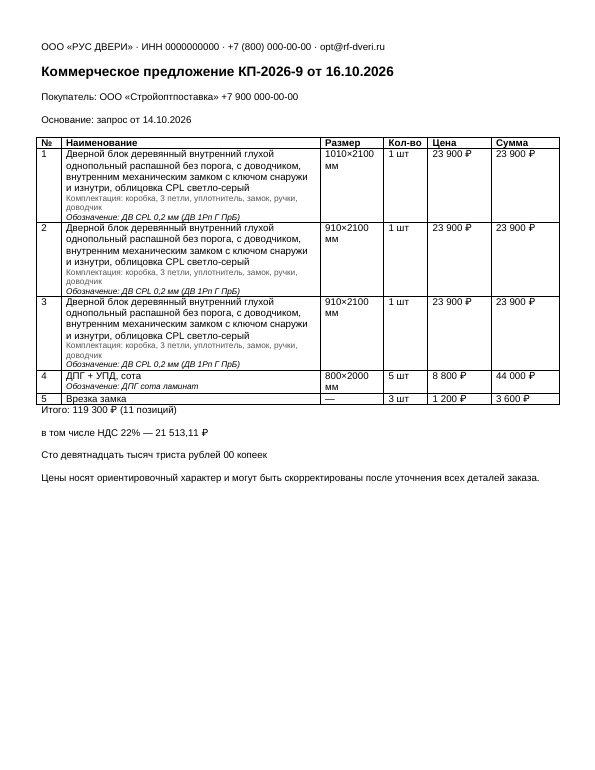
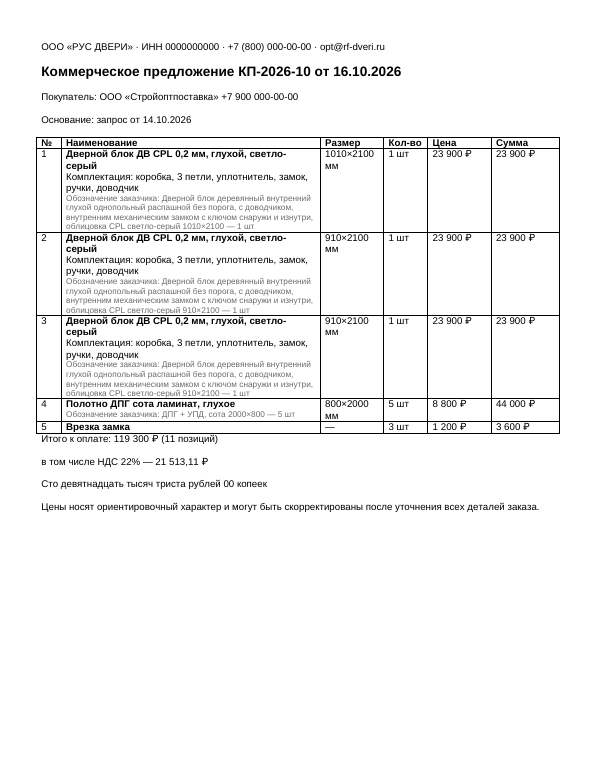
RFD-AI-AGENT-OPT-KP-LAYOUT: ячейка «Наименование» в три уровня — короткое название по прайсу с признаками (без «по прайсу»), комплектация, обозначение заказчика (строка запроса); один знак ₽ при «{{grand_total}} ₽» в шаблоне; разрывы страницы после таблицы убираются; цвет в любом роде; образец шабло
Claude-Session: https://claude.ai/code/session_01Xv7hRJtpbHuxcUrULXqH6e

diff --git a/packages/opt/kp/test/kp.test.ts b/packages/opt/kp/test/kp.test.ts
@@ -1,8 +1,8 @@
 import type { LeadFile } from '@core/amo';
 import type { LlmGateway, RoutedRequest, RoutedResponse } from '@core/llm';
 import { describe, expect, it } from 'vitest';
-import { DEFAULT_PRICE_NOTE, lineSum, plural, rublesInWords, templateData, withPriceNoteFallback, withLayoutFallback } from '../src/build.ts';
-import { buildKpDraft, extractEmail, mailSearchOf, parseDraft, positionToRequest, senderFromNotes, type KpDraftDeps, type ParsedFile, fullItemName, kpLineDesignation, kpLineName, kpLineParts, tidyName } from '../src/draft.ts';
+import { DEFAULT_PRICE_NOTE, lineSum, plural, rublesInWords, templateData, withPriceNoteFallback, withLayoutFallback, currencyTagsInTemplate, withCurrencyFallback, dropPageBreaksAfterTable } from '../src/build.ts';
+import { buildKpDraft, extractEmail, mailSearchOf, parseDraft, positionToRequest, senderFromNotes, type KpDraftDeps, type ParsedFile, fullItemName, kpLineName, kpLineParts, kpShortName, tidyName } from '../src/draft.ts';
 import { MailAuthError, type MailSearchDiag } from '../src/mail-read.ts';
 import { researchablePositions } from '../src/research-job.ts';
 
@@ -74,20 +74,38 @@ describe('черновик: разбор ответа модели и позиц
     expect(p.request_items[0]?.name).toBe(full);
     expect(kpLineName({ name: full, priceModel: 'ДВ CPL 0,2 мм' })).toBe(`${full} — по прайсу: ДВ CPL 0,2 мм`);
     expect(kpLineName({ name: full, priceModel: null })).toBe(full);
-    // KP-LAYOUT: строка в три части — название / комплектация / обозначение по прайсу (модель с покрытием и сокращение по ГОСТ).
-    expect(kpLineParts({ name: full, priceModel: 'ДВ CPL 0,2 мм', priceAbbr: 'ДВ 1Рп Г ПрБ', equipment: 'коробка, 3 петли' })).toEqual({ name: full, equipment: 'коробка, 3 петли', designation: 'ДВ CPL 0,2 мм (ДВ 1Рп Г ПрБ)' });
-    expect(kpLineDesignation({ priceModel: 'ДПГ сота ламинат', priceAbbr: 'ДПГ' })).toBe('ДПГ сота ламинат');
-    expect(kpLineDesignation({ priceModel: null, priceAbbr: null })).toBe('');
-    expect(kpLineParts({ name: 'Врезка замка', priceModel: null, priceAbbr: null, equipment: null })).toEqual({ name: 'Врезка замка', equipment: '', designation: '' });
-    // Шаблон без {{equipment}} / {{designation}}: части идут строками под названием; с ними — название остаётся чистым.
-    const data = templateData({ kpNo: '1', date: new Date(), basis: '', clientName: '', clientPhone: '', lines: [{ name: 'Дверь', size: '', qty: 1, price: 100, discount: 0, equipment: 'коробка', designation: 'ДВ CPL' }, { name: 'Добор', size: '', qty: 1, price: 10, discount: 0 }], vatRate: 0, priceNote: '' });
-    expect(data.items.map((i) => [i.name, i.equipment, i.designation])).toEqual([['Дверь', 'коробка', 'ДВ CPL'], ['Добор', '', '']]);
+    // KP-LAYOUT, п. 2: ячейка в три уровня — короткое название по прайсу без «по прайсу» / комплектация / обозначение заказчика (его строка).
+    const item = { raw: `${full} 1010×2100 — 1 шт`, name: full, features: { material: 'wood' as const } };
+    expect(kpShortName({ name: full, priceModel: 'ДВ CPL 0,2 мм' }, item)).toBe('Дверной блок ДВ CPL 0,2 мм, глухой, светло-серый');
+    expect(kpLineParts({ name: full, priceModel: 'ДВ CPL 0,2 мм', equipment: 'коробка, 3 петли' }, item)).toEqual({ name: 'Дверной блок ДВ CPL 0,2 мм, глухой, светло-серый', equipment: 'коробка, 3 петли', designation: `${full} 1010×2100 — 1 шт` });
+    // Полотно — средний род; двупольная противопожарная — признаки через запятую; модель, начинающаяся с типа, не дублируется.
+    expect(kpShortName({ name: 'ДПГ + УПД, сота', priceModel: 'ДПГ сота ламинат' }, { raw: 'ДПГ + УПД, сота 2000×800 — 5 шт', name: 'ДПГ + УПД, сота' })).toBe('Полотно ДПГ сота ламинат, глухое');
+    expect(kpShortName({ name: 'Дверь противопожарная металлическая EI60 двупольная серая', priceModel: 'ДМ EI60 2Рп' }, null)).toBe('Дверь ДМ EI60 2Рп, двупольная, EI60, серый');
+    expect(kpShortName({ name: 'Дверной блок деревянный глухой', priceModel: 'Дверной блок ДГ 21-9' }, null)).toBe('Дверной блок ДГ 21-9, глухой');
+    // Без строки прайса: название клиента как есть, третьего уровня нет.
+    expect(kpShortName({ name: 'Врезка замка', priceModel: null }, { raw: 'Врезка замка — 3 шт', name: 'Врезка замка' })).toBe('Врезка замка');
+    expect(kpLineParts({ name: 'Врезка замка', priceModel: null, equipment: null }, { raw: 'Врезка замка — 3 шт', name: 'Врезка замка' })).toEqual({ name: 'Врезка замка', equipment: '', designation: '' });
+    expect(kpLineParts({ name: 'Добор', priceModel: null, equipment: null }, null)).toEqual({ name: 'Добор', equipment: '', designation: '' });
+    // Шаблон без {{equipment}} / {{designation}}: уровни идут строками под названием; с ними — название остаётся чистым.
+    const data = templateData({ kpNo: '1', date: new Date(), basis: '', clientName: '', clientPhone: '', lines: [{ name: 'Дверной блок ДВ CPL 0,2 мм, глухой', size: '', qty: 1, price: 100, discount: 0, equipment: 'коробка', designation: 'Дверной блок деревянный глухой CPL 1010×2100 — 1 шт' }, { name: 'Добор', size: '', qty: 1, price: 10, discount: 0 }], vatRate: 0, priceNote: '' });
+    expect(data.items.map((i) => [i.name, i.equipment, i.designation])).toEqual([['Дверной блок ДВ CPL 0,2 мм, глухой', 'коробка', 'Дверной блок деревянный глухой CPL 1010×2100 — 1 шт'], ['Добор', '', '']]);
     const legacy = withLayoutFallback({ equipment: false, designation: false }, data);
     expect(legacy.fallback).toBe(true);
-    expect(legacy.data.items.map((i) => i.name)).toEqual(['Дверь\nКомплектация: коробка\nОбозначение: ДВ CPL', 'Добор']);
-    const half = withLayoutFallback({ equipment: true, designation: false }, data);
-    expect(half.data.items[0]?.name).toBe('Дверь\nОбозначение: ДВ CPL');
+    expect(legacy.data.items.map((i) => i.name)).toEqual(['Дверной блок ДВ CPL 0,2 мм, глухой\nКомплектация: коробка\nОбозначение заказчика: Дверной блок деревянный глухой CPL 1010×2100 — 1 шт', 'Добор']);
+    expect(withLayoutFallback({ equipment: true, designation: false }, data).data.items[0]?.name).toBe('Дверной блок ДВ CPL 0,2 мм, глухой\nОбозначение заказчика: Дверной блок деревянный глухой CPL 1010×2100 — 1 шт');
     expect(withLayoutFallback({ equipment: true, designation: true }, data)).toEqual({ data, fallback: false });
+    // KP-LAYOUT, дефект 4: «{{grand_total}} ₽» в шаблоне — знак из значения убирается, у {{price}} без знака остаётся.
+    expect(currencyTagsInTemplate('Итого: {{grand_total}} ₽, цена {{price}}, сумма {{ sum }}руб.')).toEqual(['grand_total', 'sum']);
+    const money = withCurrencyFallback(['grand_total', 'sum'], data);
+    expect(money.grand_total.replace(/\u00a0/g, ' ')).toBe('110');
+    expect(money.items.map((i) => [i.price.replace(/\u00a0/g, ' '), i.sum])).toEqual([['100 ₽', '100'], ['10 ₽', '10']]);
+    expect(withCurrencyFallback([], data)).toBe(data);
+    // Дефект 5: явные разрывы страницы после последней таблицы убираются, до неё — нет.
+    const xml = '<w:p><w:r><w:br w:type="page"/></w:r></w:p><w:tbl><w:tr><w:tc><w:p>x</w:p></w:tc></w:tr></w:tbl><w:p><w:pPr><w:pageBreakBefore/></w:pPr><w:r><w:t>3 позиции</w:t></w:r></w:p><w:p><w:r><w:br w:type="page"/></w:r></w:p>';
+    const cut = dropPageBreaksAfterTable(xml);
+    expect(cut.removed).toBe(2);
+    expect(cut.xml).toBe('<w:p><w:r><w:br w:type="page"/></w:r></w:p><w:tbl><w:tr><w:tc><w:p>x</w:p></w:tc></w:tr></w:tbl><w:p><w:pPr></w:pPr><w:r><w:t>3 позиции</w:t></w:r></w:p><w:p><w:r></w:r></w:p>');
+    expect(dropPageBreaksAfterTable('<w:p/>')).toEqual({ xml: '<w:p/>', removed: 0 });
     // KP-REBUILD-MAIL, п. 3: пометка «(h)» из спецификации клиента не попадает в название и строку.
     expect(tidyName('Дверь ДПГ 2100 (h) × 900 , белая')).toBe('Дверь ДПГ 2100 × 900, белая');
     expect(tidyName('Полотно 2000(H)х800')).toBe('Полотно 2000 х800');

diff --git a/packages/opt/kp/src/build.ts b/packages/opt/kp/src/build.ts
@@ -164,11 +164,46 @@ export function withPriceNoteFallback(hasTag: boolean, data: KpTemplateData): { 
  */
 export function withLayoutFallback(tags: { equipment: boolean; designation: boolean }, data: KpTemplateData): { data: KpTemplateData; fallback: boolean } {
   const items = data.items.map((it) => {
-    const extra = [!tags.equipment && it.equipment ? `Комплектация: ${it.equipment}` : '', !tags.designation && it.designation ? `Обозначение: ${it.designation}` : ''].filter(Boolean);
+    const extra = [!tags.equipment && it.equipment ? `Комплектация: ${it.equipment}` : '', !tags.designation && it.designation ? `Обозначение заказчика: ${it.designation}` : ''].filter(Boolean);
     return extra.length ? { ...it, name: [it.name, ...extra].join('\n') } : it;
   });
   const fallback = items.some((it, i) => it.name !== data.items[i]?.name);
   return { data: { ...data, items }, fallback };
+}
+
+/** Теги денег, после которых шаблон сам ставит знак рубля: «{{grand_total}} ₽» давало «71 700 ₽ ₽» (KP-LAYOUT, дефект 4). */
+export const MONEY_TAGS = ['grand_total', 'price', 'sum'] as const;
+export type MoneyTag = (typeof MONEY_TAGS)[number];
+
+export function currencyTagsInTemplate(text: string): MoneyTag[] {
+  return MONEY_TAGS.filter((t) => new RegExp(`\\{\\{\\s*${t}\\s*\\}\\}\\s*(₽|руб\\.?|р\\.)`, 'iu').test(text));
+}
+
+/** Из значений тегов, за которыми в шаблоне уже стоит ₽, знак убирается — в документе он остаётся один. */
+export function withCurrencyFallback(tags: MoneyTag[], data: KpTemplateData): KpTemplateData {
+  if (!tags.length) return data;
+  const strip = (v: string) => v.replace(/\s*₽$/u, '');
+  return {
+    ...data,
+    grand_total: tags.includes('grand_total') ? strip(data.grand_total) : data.grand_total,
+    items: data.items.map((it) => ({ ...it, price: tags.includes('price') ? strip(it.price) : it.price, sum: tags.includes('sum') ? strip(it.sum) : it.sum })),
+  };
+}
+
+/**
+ * Разрывы страницы после таблицы позиций (KP-LAYOUT, дефект 5): плашка «N позиций» и примечание уезжали на почти пустой
+ * второй лист. Явные разрывы (<w:br w:type="page"/>, pageBreakBefore) после последней таблицы убираются; разрывы до неё
+ * и внутри не трогаются.
+ */
+export function dropPageBreaksAfterTable(xml: string): { xml: string; removed: number } {
+  const at = xml.lastIndexOf('</w:tbl>');
+  if (at < 0) return { xml, removed: 0 };
+  const head = xml.slice(0, at);
+  let tail = xml.slice(at);
+  let removed = 0;
+  tail = tail.replace(/<w:br\s+w:type="page"\s*\/>/g, () => (removed += 1, ''));
+  tail = tail.replace(/<w:pageBreakBefore(\s+w:val="(true|1|on)")?\s*\/>/g, () => (removed += 1, ''));
+  return { xml: head + tail, removed };
 }
 
 export interface KpBuildResult {
@@ -178,8 +213,12 @@ export interface KpBuildResult {
   certificates: string[];
   /** В шаблоне нет {{price_note}} — фраза о ценах добавлена под строку НДС. */
   priceNoteFallback: boolean;
-  /** В шаблоне нет {{equipment}} / {{designation}} — комплектация и обозначение добавлены строками под названием. */
+  /** В шаблоне нет {{equipment}} / {{designation}} — комплектация и обозначение заказчика добавлены строками под названием. */
   layoutFallback: boolean;
+  /** Теги, после которых шаблон сам ставит ₽ — из их значений знак убран. */
+  currencyStripped: MoneyTag[];
+  /** Сколько явных разрывов страницы после таблицы убрано. */
+  pageBreaksRemoved: number;
 }
 
 /**
@@ -201,11 +240,20 @@ export async function buildKp(
   });
   const text = doc.getFullText();
   const { data: withNote, fallback } = withPriceNoteFallback(text.includes('price_note'), data);
-  const { data: rendered, fallback: layoutFallback } = withLayoutFallback({ equipment: text.includes('equipment'), designation: text.includes('designation') }, withNote);
-  doc.render(rendered);
+  const { data: laidOut, fallback: layoutFallback } = withLayoutFallback({ equipment: text.includes('equipment'), designation: text.includes('designation') }, withNote);
+  const currencyStripped = currencyTagsInTemplate(text);
+  doc.render(withCurrencyFallback(currencyStripped, laidOut));
   await mkdir(outDir, { recursive: true });
   const docxPath = join(outDir, `${baseName}.docx`);
-  await writeFile(docxPath, doc.getZip().generate({ type: 'nodebuffer' }) as Buffer);
+  const out = doc.getZip();
+  const body = out.file('word/document.xml')?.asText();
+  let pageBreaksRemoved = 0;
+  if (body) {
+    const fixed = dropPageBreaksAfterTable(body);
+    pageBreaksRemoved = fixed.removed;
+    if (fixed.removed) out.file('word/document.xml', fixed.xml);
+  }
+  await writeFile(docxPath, out.generate({ type: 'nodebuffer' }) as Buffer);
 
   const pdfPath = join(outDir, `${baseName}.pdf`);
   try {
@@ -216,9 +264,9 @@ export async function buildKp(
       { timeout: 120_000 },
     );
     await access(pdfPath);
-    return { docxPath, pdfPath, certificates: [], priceNoteFallback: fallback, layoutFallback };
+    return { docxPath, pdfPath, certificates: [], priceNoteFallback: fallback, layoutFallback, currencyStripped, pageBreaksRemoved };
   } catch (err) {
-    return { docxPath, pdfPath: null, pdfError: (err as Error).message, certificates: [], priceNoteFallback: fallback, layoutFallback };
+    return { docxPath, pdfPath: null, pdfError: (err as Error).message, certificates: [], priceNoteFallback: fallback, layoutFallback, currencyStripped, pageBreaksRemoved };
   }
 }
 

diff --git a/packages/opt/kp/src/draft.ts b/packages/opt/kp/src/draft.ts
@@ -3,7 +3,7 @@ import type { OptPosition } from './table-parse.ts';
 import { costOfUsage, type ChatRoute, type CostResult, type LlmGateway, type PricingOverrides } from '@core/llm';
 import { extractRequirements, referencePrice, suggestAnalog, type AnalogCandidate, type AnalogRequest } from './analog.ts';
 import { MailAuthError, pickMailAttachments, type MailAttachment, type MailReadResult, type MailSearch, type MailSearchDiag } from './mail-read.ts';
-import { featuresFromModel, type DoorFeatures } from '@opt/kb';
+import { colorOf, featuresFromModel, featuresOf, mergeFeatures, type DoorFeatures } from '@opt/kb';
 
 /**
  * Черновик КП «Агента опт». Единственный вход — карточка сделки amoCRM (ТЗ разделение, 6.4):
@@ -586,18 +586,41 @@ export function kpLineName(l: Pick<KpLine, 'name' | 'priceModel'>): string {
   return l.priceModel ? `${l.name} — по прайсу: ${l.priceModel}` : l.name;
 }
 
-/** Обозначение по нашему прайсу: «ДВ CPL 0,2 мм (ДВ 1Рп Г ПрБ)»; без строки прайса — пусто. */
-export function kpLineDesignation(l: Pick<KpLine, 'priceModel' | 'priceAbbr'>): string {
-  if (!l.priceModel) return l.priceAbbr ?? '';
-  return l.priceAbbr && !l.priceModel.toLowerCase().includes(l.priceAbbr.toLowerCase()) ? `${l.priceModel} (${l.priceAbbr})` : l.priceModel;
+/**
+ * Короткое название позиции для клиентского КП (KP-LAYOUT, п. 2): модель и покрытие из прайса плюс ключевые признаки —
+ * «Дверной блок ДВ CPL 0,2 мм, глухой, светло-серый». Без строки прайса — название клиента как есть. Служебные слова
+ * («по прайсу», источник цены) в клиентский документ не попадают.
+ */
+export function kpShortName(l: Pick<KpLine, 'name' | 'priceModel'>, item?: Pick<KpRequestItem, 'raw' | 'name' | 'features'> | null): string {
+  if (!l.priceModel) return l.name;
+  const text = `${item?.name ?? l.name} | ${item?.raw ?? ''}`;
+  const f = mergeFeatures(featuresOf(text), item?.features ?? null);
+  // Род прилагательных: блок — мужской, полотно — средний, неизвестно — «дверь», женский.
+  const g = f.type === 'block' ? 0 : f.type === 'leaf' ? 1 : 2;
+  const head = ['Дверной блок', 'Полотно', 'Дверь'][g] as string;
+  const words: string[] = [];
+  if (f.glazing) words.push((f.glazing === 'solid' ? ['глухой', 'глухое', 'глухая'] : ['остеклённый', 'остеклённое', 'остеклённая'])[g] as string);
+  if (f.leaves === 2) words.push(['двупольный', 'двупольное', 'двупольная'][g] as string);
+  if (f.fire) words.push(f.fire === 'yes' ? 'противопожарный' : f.fire);
+  const color = colorOf(text);
+  if (color) words.push(color);
+  // Модель уже начинается с типа («Дверной блок …») — не дублируем.
+  const model = l.priceModel.trim();
+  const lead = model.toLowerCase().replace(/\s+/g, " ").startsWith(head.toLowerCase()) ? model : `${head} ${model}`;
+  return [lead, ...words].join(', ');
 }
 
 /**
- * Строка КП в три части (KP-LAYOUT): название как у клиента / комплектация из прайса / обозначение по нашему прайсу.
- * Шаблон с плейсхолдерами {{equipment}} и {{designation}} раскладывает их по своим абзацам; без них они идут строками под названием.
+ * Ячейка «Наименование» в три уровня (KP-LAYOUT, п. 2): name — короткое название по прайсу (жирным в шаблоне);
+ * equipment — комплектация из прайса; designation — обозначение заказчика: исходная строка из его запроса (мелким серым),
+ * чтобы клиент узнал свою позицию. Шаблон с плейсхолдерами {{equipment}} и {{designation}} раскладывает их по своим
+ * абзацам; без них они идут строками под названием.
  */
-export function kpLineParts(l: Pick<KpLine, 'name' | 'priceModel' | 'priceAbbr' | 'equipment'>): { name: string; equipment: string; designation: string } {
-  return { name: l.name, equipment: l.equipment ?? '', designation: kpLineDesignation(l) };
+export function kpLineParts(l: Pick<KpLine, 'name' | 'priceModel' | 'equipment'>, item?: Pick<KpRequestItem, 'raw' | 'name' | 'features'> | null): { name: string; equipment: string; designation: string } {
+  const name = kpShortName(l, item);
+  // Без строки прайса первый уровень и есть строка клиента — третий уровень не нужен.
+  const original = l.priceModel ? tidyName(item?.raw || item?.name || l.name) : '';
+  return { name, equipment: l.equipment ?? '', designation: original && original !== name ? original : '' };
 }
 
 /** Позиция разобранной спецификации → позиция запроса (цена из документа клиента не берётся: это не наша цена). */

diff --git a/packages/opt/kp/src/kp-build.ts b/packages/opt/kp/src/kp-build.ts
@@ -89,9 +89,9 @@ export async function buildDraftDocument(d: KpBuildDeps, input: { accountId: num
     basis: letterAt ? `запрос от ${letterAt.toLocaleDateString('ru-RU')}` : 'запрос клиента',
     clientName: payload.client?.org || payload.client?.fio || '',
     clientPhone: payload.client?.phone || '',
-    // KP-LAYOUT: строка в три части — название как у клиента / комплектация / обозначение по прайсу; в шаблоне без
-    // {{equipment}} и {{designation}} вторая и третья части идут строками под названием.
-    lines: lines.map((l) => ({ ...kpLineParts(l), size: l.size, qty: l.qty, price: l.price, discount: l.discount })),
+    // KP-LAYOUT: ячейка в три уровня — короткое название по прайсу / комплектация / обозначение заказчика (его строка
+    // запроса); в шаблоне без {{equipment}} и {{designation}} второй и третий уровни идут строками под названием.
+    lines: lines.map((l) => ({ ...kpLineParts(l, payload.request_items?.[l.request_index] ?? null), size: l.size, qty: l.qty, price: l.price, discount: l.discount })),
     vatRate: s.constants.vatRate ?? 0,
     priceNote: s.constants.priceNote ?? DEFAULT_PRICE_NOTE,
   });
@@ -129,9 +129,11 @@ export async function buildDraftDocument(d: KpBuildDeps, input: { accountId: num
       (built.pdfPath ? '' : `; PDF не собран${built.pdfError ? ` (${built.pdfError})` : ''}`) +
       (attached.length ? `; в сделку: ${attached.join(', ')}` : '; в сделку не приложено') +
       (built.priceNoteFallback ? '; в шаблоне нет {{price_note}} — фраза о ценах добавлена под строку НДС' : '') +
-      (built.layoutFallback ? '; в шаблоне нет {{equipment}} / {{designation}} — комплектация и обозначение добавлены строками под названием' : '') +
+      (built.layoutFallback ? '; в шаблоне нет {{equipment}} / {{designation}} — комплектация и обозначение заказчика добавлены строками под названием' : '') +
+      (built.currencyStripped.length ? `; в шаблоне знак ₽ стоит после ${built.currencyStripped.map((t) => `{{${t}}}`).join(', ')} — из значений убран` : '') +
+      (built.pageBreaksRemoved ? `; разрывов страницы после таблицы убрано: ${built.pageBreaksRemoved}` : '') +
       `; ${(ms / 1000).toFixed(1)} с`,
-    details: { draftId: draft.id, kpNo, files, certificates: certs.length, attached, pdfError: built.pdfError ?? null, priceNoteFallback: built.priceNoteFallback, layoutFallback: built.layoutFallback, userId: input.userId, ms },
+    details: { draftId: draft.id, kpNo, files, certificates: certs.length, attached, pdfError: built.pdfError ?? null, priceNoteFallback: built.priceNoteFallback, layoutFallback: built.layoutFallback, currencyStripped: built.currencyStripped, pageBreaksRemoved: built.pageBreaksRemoved, userId: input.userId, ms },
   });
   return { draft: fresh, kpNo, pdf: Boolean(built.pdfPath), pdfError: built.pdfError ?? null, files, certificates: certs, attached, priceNoteFallback: built.priceNoteFallback, ms };
 }

diff --git a/packages/opt/kb/test/prices.test.ts b/packages/opt/kb/test/prices.test.ts
@@ -110,7 +110,7 @@ describe('kb_prices и kb_aliases на БД', () => {
     expect(viaAlias).toMatchObject({ price: 3500, match: 'alias', notes: ['по синониму: ДПГ сота'] });
     // Похожая модель по словам: «Турин» внутри длинного названия.
     const tokens = await lookupPrice(prices, aliases, ACCOUNT, { name: 'Дверь Браво Турин белая эмаль', widthMm: 800, heightMm: 2000 });
-    expect(tokens).toMatchObject({ match: 'tokens', price: 8100, notes: [expect.stringContaining('похожая модель в базе: Турин')] });
+    expect(tokens).toMatchObject({ match: 'tokens', price: 8100, notes: expect.arrayContaining([expect.stringContaining('похожая модель в базе: Турин'), 'цвет уточнить: в письме «белый», в строке прайса Турин цвет не указан']) });
     // Устарела: прайс 01.10.2026 через 100 дней.
     const old = await lookupPrice(prices, aliases, ACCOUNT, { name: 'ДПГ сота', widthMm: 800, heightMm: 2000 }, new Date('2027-01-20'));
     expect(old).toMatchObject({ stale: true, validityDays: 90, notes: expect.arrayContaining([expect.stringContaining('цена устарела')]) });

diff --git a/packages/opt/kb/src/features.ts b/packages/opt/kb/src/features.ts
@@ -239,8 +239,10 @@ export function colorOf(text: string | null | undefined): string | null {
   const explicit = /цвет[а-я]*\s*[-—:]?\s*([а-яa-z-]+(?:\s[а-яa-z-]+)?)/.exec(t);
   for (const c of COLORS) {
     const key = c.replace(/ё/g, 'е');
-    // «светло-серый», «светло серый» и «светлосерый» — один цвет.
-    const rx = new RegExp(`(^|[^а-яa-z])${key.replace(/[-\s]/g, '[-\\s]?')}(?![а-яa-z])`);
+    // «светло-серый», «светло серый» и «светлосерый» — один цвет; прилагательные — в любом роде и падеже («серая», «серого»).
+    const adjective = /(ый|ий|ой)$/.test(key);
+    const stem = (adjective ? key.replace(/(ый|ий|ой)$/, '') : key).replace(/[-\s]/g, '[-\\s]?');
+    const rx = new RegExp(`(^|[^а-яa-z])${stem}${adjective ? '(ый|ий|ой|ая|яя|ое|ее|ые|ие|ого|его|ому|ему|ым|им|ей|ую|юю|ом|ем)' : ''}(?![а-яa-z])`);
     if (rx.test(t)) return c.replace(/ (серый)$/, '-$1');
   }
   if (explicit && explicit[1] && !/^(не|по|как|в|и|или)$/.test(explicit[1])) return explicit[1].trim();

diff --git a/packages/opt/kb/test/features.test.ts b/packages/opt/kb/test/features.test.ts
@@ -80,6 +80,8 @@ describe('признаки двери (RFD-AI-AGENT-OPT-KB-MATCH)', () => {
     expect(colorOf('эмаль белый матовый')).toBe('белый матовый');
     expect(colorOf('эмаль RAL 7035, глухая')).toBe('RAL 7035');
     expect(colorOf('цвет: капучино')).toBe('капучино');
+    expect(colorOf('дверь серая двупольная')).toBe('серый');
+    expect(colorOf('полотно белого цвета')).toBe('белый');
     expect(colorOf('Дверной блок деревянный глухой')).toBeNull();
     expect(priceModelOf({ model: 'ДВ CPL', coating: 'CPL 0,2 мм' })).toBe('ДВ CPL 0,2 мм');
     expect(priceModelOf({ model: 'ДВ CPL', coating: 'cpl' })).toBe('ДВ CPL');

diff --git a/docs/opt/kp-layout-report.md b/docs/opt/kp-layout-report.md
@@ -1,42 +1,44 @@
-# RFD-AI-AGENT-OPT-KP-LAYOUT: строка КП в три части
+# RFD-AI-AGENT-OPT-KP-LAYOUT: вид позиций и итога в КП
 
-Дата: 17.10.2026. Ветка `claude/opt-kb`, коммит 2a8288f (после 85cfcbc, KP-REBUILD-MAIL). Сервер (`@opt/kp`) и виджет 1.1.8.
+Дата: 17.10.2026. Ветка `claude/opt-kb`, два коммита после 85cfcbc (KP-REBUILD-MAIL): 2a8288f (каркас трёх уровней,
+сделан до получения текста задания) и итоговый по тексту задания. Сервер (`@opt/kp`, `@opt/kb`) и виджет 1.1.8.
 Розница и ядро не менялись (`git diff -- packages/retail apps/api apps/worker apps/widget packages/core` = 0).
 
-**Файл «Задание-Коду-KP-LAYOUT.md» в сессию не попал** — из пересказа известны только «пять дефектов PDF» и предлагаемый
-вид строки «название / комплектация / обозначение заказчика». Сделан вид строки; пять дефектов не известны — ниже то,
-что нашлось при самостоятельном прогоне PDF, и что нужно прислать текстом, чтобы закрыть остальное.
+Пример заказчика: сделка 90025 (#30022107), черновик 50, `KP-КП-2026-10.pdf`.
 
-## Что увидел сам (прогон трёх позиций #30022107 через нашу сборку и LibreOffice, шаблон с таблицей 6 колонок)
+## Дефекты и причины
 
-| Дефект | Причина | Исправлено |
-| --- | --- | --- |
-| название, «— по прайсу: ДВ CPL 0,2 мм» и «Комплектация: …» — одна простыня в ячейке, одним шрифтом | KP-NAME складывал всё в `{{name}}` через перенос строки | да: три части с отдельными плейсхолдерами (ниже) |
-| в шаблоне без отдельных абзацев части нельзя оформить по-разному (мельче, курсивом) | плейсхолдер был один | да: `{{equipment}}` и `{{designation}}` — свои абзацы в ячейке, со своим шрифтом |
-| у позиций без комплектации в ячейке остаётся пустой абзац | docxtemplater не убирает абзац, если открывающий и закрывающий теги условия стоят в одном абзаце | да: в образце шаблона теги условия стоят отдельными абзацами (`{{#equipment}}` / текст / `{{/equipment}}`) — тогда пустые абзацы удаляются (проверено PDF) |
-| обозначение по прайсу было только моделью с покрытием, без сокращения по ГОСТ | сокращение не хранилось в строке | да: «Обозначение: ДВ CPL 0,2 мм (ДВ 1Рп Г ПрБ)» |
-
-Что не видно без шаблона заказчика и файла задания: ширины колонок, переносы «1010×2100 мм» в узкой колонке, разрывы строки между страницами, шрифты — это свойства шаблона `kp.docx`, код их не задаёт.
+| № | Дефект в PDF | Причина в коде | Исправлено |
+| --- | --- | --- | --- |
+| 1 | «Дверной блок (h), деревянный…» | пометка высоты из спецификации оставалась в названии | в KP-REBUILD-MAIL (`tidyName`); в черновике 50 текст старый — нужен «Собрать заново», тогда в PDF «(h)» нет |
+| 2 | наименование — сплошной абзац на 12 строк: техописание + «— по прайсу» + «Комплектация» | KP-NAME складывал всё в `{{name}}`: полное название клиента, суффикс «— по прайсу: …», комплектация через перенос в том же абзаце | три уровня, каждый с новой строки (ниже) |
+| 3 | служебное «по прайсу: ДВ CPL 0,2 мм» в клиентском документе | `kpLineName` добавлял источник цены в название | в документ не выводится; источник цены (`priceLabel`, `priceSource`) — только в виджете |
+| 4 | «71 700 ₽ ₽» | `money()` ставит знак рубля в значение, а в шаблоне заказчика после `{{grand_total}}` стоит свой «₽» | если в шаблоне после `{{grand_total}}` / `{{price}}` / `{{sum}}` уже стоит ₽ (или «руб.»), из значения знак убирается; в журнале `kp_build` «в шаблоне знак ₽ стоит после {{grand_total}} — из значений убран». Сам шаблон `kp/28528549/template.docx` менять не нужно |
+| 5 | вторая страница почти пустая: плашка «3 позиции» и примечание | явный разрыв страницы после таблицы в шаблоне плюс строки на 12 строк высотой | явные разрывы (`<w:br w:type="page"/>`, `pageBreakBefore`) после последней таблицы убираются при сборке; разрывы до таблицы и внутри неё не трогаются; в журнале «разрывов страницы после таблицы убрано: N». Строки стали в 2–3 раза ниже |
 
 ## Что сделано
 
-| Часть | Где | Содержание |
+| Пункт задания | Где | Содержание |
 | --- | --- | --- |
-| Строка в три части | `packages/opt/kp/src/draft.ts` (`kpLineParts`, `kpLineDesignation`, `KpLine.priceAbbr`), `research-job.ts` | `name` — название как у клиента (полное, KP-NAME); `equipment` — комплектация из колонки прайса; `designation` — обозначение по нашему прайсу: модель с покрытием плюс сокращение по ГОСТ из колонки «Сокращение» («ДВ CPL 0,2 мм (ДВ 1Рп Г ПрБ)»; если сокращение уже входит в модель — без скобок). Сокращение сохраняется в строке черновика при цене из прайса (`priceAbbr`), у веб-цен и правок — пусто |
-| Плейсхолдеры шаблона | `build.ts` (`KpTemplateData.items[].equipment/designation`, `withLayoutFallback`), `kp-build.ts` | в строке таблицы `{{#items}}…{{/items}}` доступны `{{name}}`, `{{equipment}}`, `{{designation}}`. Шаблон без них (как сейчас у заказчика): части идут строками под названием внутри `{{name}}` — «Комплектация: …», «Обозначение: …», в журнале `kp_build` «в шаблоне нет {{equipment}} / {{designation}} — комплектация и обозначение добавлены строками под названием». Строка «— по прайсу: …» в названии больше не пишется |
-| Образец шаблона | `docs/opt/kp-template-sample.docx`, `docs/opt/kp-layout-sample.png` | таблица № / Наименование / Размер / Кол-во / Цена / Сумма с фиксированными ширинами (0,9 / 9,4 / 2,3 / 1,6 / 2,3 / 2,5 см); в ячейке названия семь абзацев: `{{name}}`, `{{#equipment}}`, «Комплектация: {{equipment}}» (8,5 пт, серый), `{{/equipment}}`, `{{#designation}}`, «Обозначение: {{designation}}» (8,5 пт, курсив), `{{/designation}}`; теги условий — отдельными абзацами, иначе пустые строки остаются. PNG — как это выглядит в PDF на трёх позициях #30022107, «ДПГ + УПД, сота» и работе без прайса |
-| Виджет 1.1.8 | `KpBlock.tsx`, `api.ts` | под названием: «Комплектация: …», затем «Обозначение по прайсу: ДВ CPL 0,2 мм (ДВ 1Рп Г ПрБ)» |
+| 1. priceLabel/priceSource не в КП | `packages/opt/kp/src/draft.ts` (`kpShortName`, `kpLineParts`), `kp-build.ts` | в документ идут только три уровня; «по прайсу», подпись источника и пометки менеджера остаются в виджете и журнале |
+| 2. Ячейка «Наименование» в три уровня | `draft.ts`, `build.ts` (`KpTemplateData.items[].name/equipment/designation`, `withLayoutFallback`) | **Название** (в шаблоне — жирным): `priceModel` + ключевые признаки: тип («Дверной блок» / «Полотно» / «Дверь»), глухая/остеклённая, двупольная, огнестойкость, цвет из письма — «Дверной блок ДВ CPL 0,2 мм, глухой, светло-серый»; род прилагательных по типу («Полотно ДПГ сота ламинат, глухое»); если модель уже начинается с типа — не дублируется; без строки прайса — название клиента как есть. **Комплектация**: `equipment` из прайса обычным шрифтом. **Обозначение заказчика**: исходная строка из запроса (raw: с размером и количеством, без «(h)») мелким серым; выводится только когда первый уровень — короткое название по прайсу (иначе первый уровень и есть строка клиента). В шаблоне — плейсхолдеры `{{name}}`, `{{equipment}}`, `{{designation}}` отдельными абзацами; теги условий `{{#equipment}}…{{/equipment}}` — отдельными абзацами, чтобы у позиций без комплектации не оставалось пустых строк (проверено в PDF). Шаблон без этих тегов (как сейчас у заказчика): уровни идут строками под названием через перенос — «Комплектация: …», «Обозначение заказчика: …», в журнале пометка |
+| 3. Итого — один знак ₽ | `build.ts` (`currencyTagsInTemplate`, `withCurrencyFallback`) | см. дефект 4; работает для любого шаблона, менять `template.docx` не требуется |
+| 4. Плашка и примечание на той же странице | `build.ts` (`dropPageBreaksAfterTable`) | см. дефект 5 |
+| Образец шаблона | `docs/opt/kp-template-sample.docx`, `docs/opt/kp-layout-sample.png` | таблица № / Наименование / Размер / Кол-во / Цена / Сумма (0,9 / 9,4 / 2,3 / 1,6 / 2,3 / 2,5 см); в ячейке названия: `{{name}}` жирным; `{{#equipment}}` / «Комплектация: {{equipment}}» / `{{/equipment}}`; `{{#designation}}` / «Обозначение заказчика: {{designation}}» (8,5 пт, серый) / `{{/designation}}`; итог «Итого к оплате: {{grand_total}} ({{total_qty}})» — без своего ₽. PNG — три позиции #30022107, «ДПГ + УПД, сота» и работа без прайса, одна страница |
+| Виджет 1.1.8 | `KpBlock.tsx` | в плитке под полным названием клиента: «Комплектация: …», «Обозначение по прайсу: ДВ CPL 0,2 мм (ДВ 1Рп Г ПрБ)» — служебное остаётся здесь |
+
+Попутно: цвет из письма теперь распознаётся в любом роде («серая», «белого») — иначе короткое название теряло цвет.
 
 ## Тесты
 
 | Пакет | Что проверяется | Итог |
 | --- | --- | --- |
-| `@opt/kp` (`kp.test.ts`) | `kpLineParts` / `kpLineDesignation` (с сокращением, без, пусто); `templateData` отдаёт `equipment`/`designation`; `withLayoutFallback`: без тегов — три строки в `{{name}}`, с одним тегом — только недостающая часть, с обоими — данные без изменений | 110 / 110 |
-| `@opt/api` (`kb-prices.test.ts`) | «Собрать документ» по шаблону без новых тегов: в DOCX у каждой строки «<название>⏎Комплектация: …⏎Обозначение: ДВ CPL 0,2 мм (ДВ 1Рп Г ПрБ)», итог 71 700 ₽, в журнале пометка о шаблоне, у строк `priceAbbr` | 39 / 39 |
-| `@opt/widget` | плитка: «Комплектация: …», «Обозначение по прайсу: ДВ CPL 0,2 мм (ДВ 1Рп Г ПрБ)» | 19 / 19 |
-| `@opt/kb` | без изменений | 48 / 48 |
+| `@opt/kp` (`kp.test.ts`) | `kpShortName`: «Дверной блок ДВ CPL 0,2 мм, глухой, светло-серый», «Полотно ДПГ сота ламинат, глухое», двупольная EI60 с цветом, модель с типом в начале без дубля, без прайса — как у клиента; `kpLineParts`: обозначение заказчика = строка запроса, без прайса — пусто; `withLayoutFallback` (без тегов / один тег / оба); `currencyTagsInTemplate` и `withCurrencyFallback` («{{grand_total}} ₽», «{{ sum }}руб.»); `dropPageBreaksAfterTable` (после таблицы убраны, до — нет) | 110 / 110 |
+| `@opt/api` (`kb-prices.test.ts`) | шаблон как у заказчика (таблица, разрыв страницы перед плашкой, «{{grand_total}} ₽»): три строки «Дверной блок ДВ CPL 0,2 мм, глухой, светло-серый ⏎ Комплектация: … ⏎ Обозначение заказчика: <строка клиента 1010×2100 — 1 шт>», «3 позиции; итого 71 700 ₽» один раз, нет «₽ ₽» и «по прайсу», в DOCX нет разрывов страницы, журнал с `currencyStripped: ['grand_total']`, `pageBreaksRemoved: 2` | 39 / 39 |
+| `@opt/kb` | цвет в любом роде; старый тест подбора «Турин белая эмаль» получил пометку «цвет уточнить» (ожидаемо) | 48 / 48 |
+| `@opt/widget` | плитка: комплектация и обозначение по прайсу | 19 / 19 |
 
-Ручная проверка PDF через LibreOffice: образец шаблона и прежний шаблон (без тегов) — оба собираются, у образца пустых абзацев нет.
+Ручная проверка PDF через LibreOffice (образец шаблона, пять позиций): одна страница, три уровня, пустых абзацев нет.
 typecheck пяти пакетов опта — чистый; eslint — 9 старых ошибок в 4 нетронутых файлах; сборка opt-api, opt-worker, виджета 1.1.8 — чистая.
 
 ## Новые переменные `.env`
@@ -51,13 +53,12 @@ docker compose build opt-api opt-worker && docker compose up -d opt-api opt-work
 cd src && WIDGET_API_URL=https://opt.rf-dveri.ru pnpm opt-widget:build && cp apps/opt-widget/dist/widget.zip /opt/agent-opt/dl/widget-opt-7c1e.zip && md5sum /opt/agent-opt/dl/widget-opt-7c1e.zip
 ```
 
-В amo — виджет 1.1.8 (`?v=118`). Чтобы части строки встали отдельными абзацами со своим шрифтом, в шаблон `kp.docx`
-заказчика нужно добавить абзацы `{{#equipment}}` / «Комплектация: {{equipment}}» / `{{/equipment}}` и
-`{{#designation}}` / «Обозначение: {{designation}}» / `{{/designation}}` под `{{name}}` в ячейке названия (как в образце)
-и загрузить его во вкладке «КП» → «Шаблон». Без этого всё равно будет три строки, но одним шрифтом.
+В amo — виджет 1.1.8 (`?v=118`). Шаблон заказчика менять не обязательно: двойной ₽ и разрыв страницы код снимает сам,
+три уровня идут строками под названием. Чтобы название было жирным, а обозначение заказчика мелким серым, в ячейку
+названия шаблона добавляются абзацы по образцу `docs/opt/kp-template-sample.docx`, файл загружается во вкладке «КП» → «Шаблон».
 
-## Приёмка (сделка 90025, #30022107)
+## Проверка (сделка 90025, #30022107)
 
-1. «Собрать документ» на прежнем шаблоне → три строки: название клиента, под ним «Комплектация: коробка, 3 петли, …», под ней «Обозначение: ДВ CPL 0,2 мм (ДВ 1Рп Г ПрБ)»; итог 71 700 ₽; в журнале `kp_build` пометка про теги шаблона.
-2. Загрузить шаблон с новыми абзацами (образец `docs/opt/kp-template-sample.docx` или свой) → те же три части отдельными абзацами, у позиций без комплектации пустых строк нет.
-3. Прислать текст задания с пятью дефектами PDF — сверю с тем, что исправлено, и доделаю остальное.
+1. «Собрать заново» (убирает «(h)» из названий черновика 50) → «Найти цены» → 3 позиции по 23 900 ₽.
+2. «Собрать документ» → в PDF у каждой строки: «Дверной блок ДВ CPL 0,2 мм, глухой, светло-серый», под ней «Комплектация: коробка, 3 петли, уплотнитель, замок, ручки, доводчик», под ней «Обозначение заказчика: <строка из запроса>»; нигде нет «по прайсу» и «(h)»; итог 71 700 ₽ один раз; плашка «3 позиции» и примечание на той же странице, пустого листа нет.
+3. В журнале `kp_build`: «в шаблоне знак ₽ стоит после {{grand_total}} — из значений убран» и «разрывов страницы после таблицы убрано: N» (если разрыв в шаблоне явный).

diff --git a/docs/opt/deploy.md b/docs/opt/deploy.md
@@ -71,13 +71,15 @@ mkdir -p /opt/agent-opt/dl && cp apps/opt-widget/dist/widget.zip /opt/agent-opt/
 диапазона прайса»). У старых записей без признаков opt-api при старте заполняет их из текста модели (один раз).
 Подробно — [отчёт](kb-match-report.md).
 
-## Строка КП в три части (RFD-AI-AGENT-OPT-KP-LAYOUT)
+## Вид позиций и итога в КП (RFD-AI-AGENT-OPT-KP-LAYOUT)
 
-Строка таблицы КП: название как у клиента / «Комплектация: …» из прайса / «Обозначение: ДВ CPL 0,2 мм (ДВ 1Рп Г ПрБ)»
-по нашему прайсу. В шаблоне для них свои плейсхолдеры `{{equipment}}` и `{{designation}}` (образец —
-`docs/opt/kp-template-sample.docx`, вид — `kp-layout-sample.png`); в шаблоне без них части идут строками под названием
-в `{{name}}`, в журнале `kp_build` пометка. Виджет 1.1.8 показывает под названием комплектацию и обозначение.
-Подробно — [отчёт](kp-layout-report.md).
+Ячейка «Наименование» в три уровня: короткое название по прайсу («Дверной блок ДВ CPL 0,2 мм, глухой, светло-серый»,
+жирным) / «Комплектация: …» / «Обозначение заказчика: <исходная строка запроса>» (мелким серым). Служебные «по прайсу»,
+priceLabel и источник цены в клиентский документ не попадают — только в виджет. В шаблоне для уровней свои плейсхолдеры
+`{{name}}`, `{{equipment}}`, `{{designation}}` (образец `docs/opt/kp-template-sample.docx`, вид `kp-layout-sample.png`);
+без них уровни идут строками под названием. Если в шаблоне после `{{grand_total}}` / `{{price}}` / `{{sum}}` уже стоит ₽,
+из значения знак убирается (не «71 700 ₽ ₽»); явные разрывы страницы после таблицы позиций убираются, плашка «N позиций»
+и примечание остаются на той же странице. Подробно — [отчёт](kp-layout-report.md).
 
 ## Пересборка черновика и почта (RFD-AI-AGENT-OPT-KP-REBUILD-MAIL)
 
